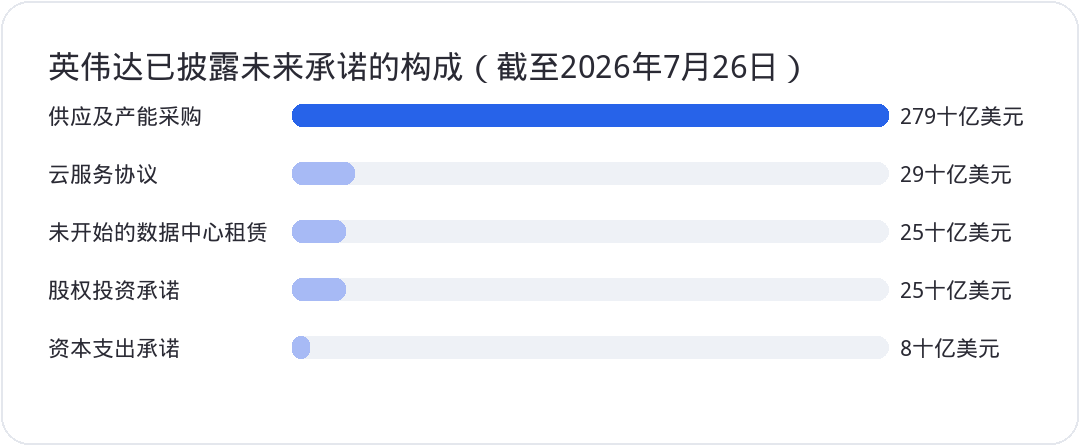
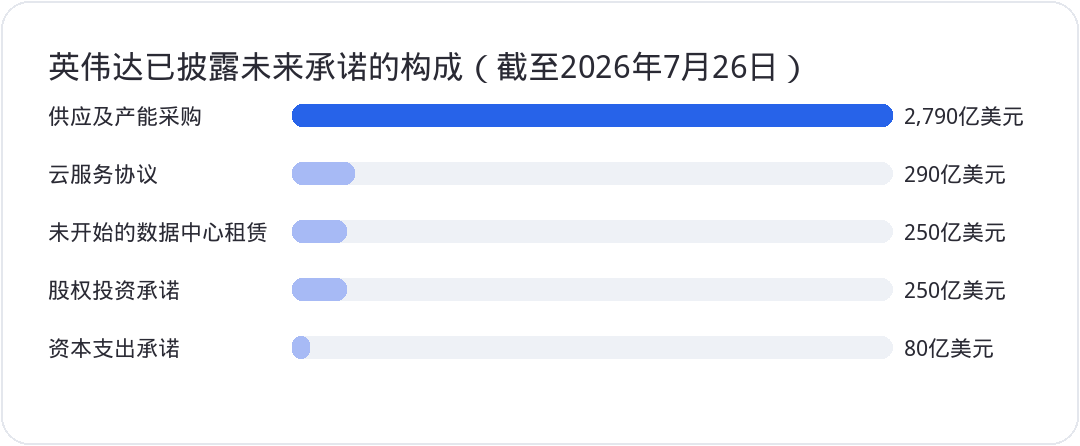
美股日报：修正11月13日中文图表美元单位

diff --git a/archive/2026-11-13-c915c8.md b/archive/2026-11-13-c915c8.md
@@ -25,7 +25,7 @@
 英伟达截至2026年7月26日的10-Q披露了多个性质不同的项目。未来供应和其他承诺总计3660亿美元，其中供应及产能采购安排2790亿美元、云服务290亿美元、尚未开始的数据中心租赁250亿美元、股权投资承诺250亿美元、资本支出承诺80亿美元。此外，与AI云服务商和第三方设施有关的额外承诺560亿美元，以及数据中心租赁等最大**有条件担保敞口1085亿美元**。这些数字机械相加确实达到5305亿美元，但类别之间的会计性质完全不同。
 
 ```chart
-{"id":"nvda-commitments-20261113","kind":"bars","title":"英伟达已披露未来承诺的构成（截至2026年7月26日）","unit":"十亿美元","items":[{"label":"供应及产能采购","value":279,"highlight":true},{"label":"云服务协议","value":29},{"label":"未开始的数据中心租赁","value":25},{"label":"股权投资承诺","value":25},{"label":"资本支出承诺","value":8}]}
+{"id":"nvda-commitments-20261113","kind":"bars","title":"英伟达已披露未来承诺的构成（截至2026年7月26日）","unit":"亿美元","items":[{"label":"供应及产能采购","value":2790,"highlight":true},{"label":"云服务协议","value":290},{"label":"未开始的数据中心租赁","value":250},{"label":"股权投资承诺","value":250},{"label":"资本支出承诺","value":80}]}
 ```
 
 图表中的五类构成**3660亿美元未来承诺**，不是全部5305亿美元敞口，也不是同一日到期的负债。额外的560亿美元包含云服务与预计转移给第三方的租赁安排；1085亿美元担保则属于具有特定项目、期限及违约触发条件的最高总敞口。特别是1050亿美元SB Energy项目担保，随设施阶段性投用生效，并非当下立即付出的1050亿美元现金。
